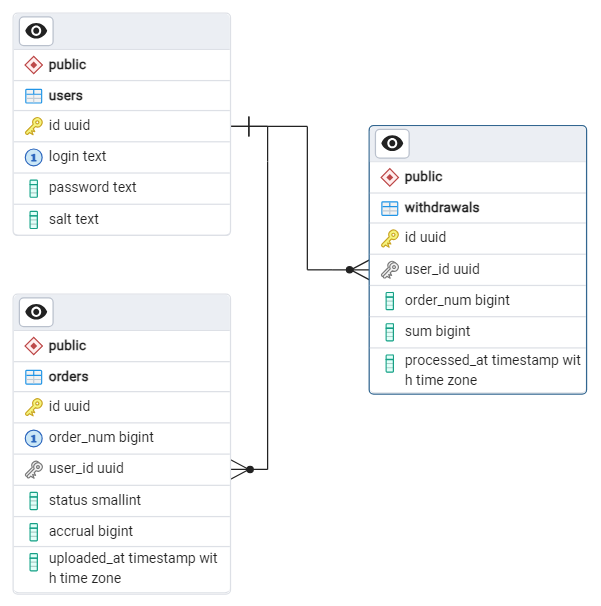
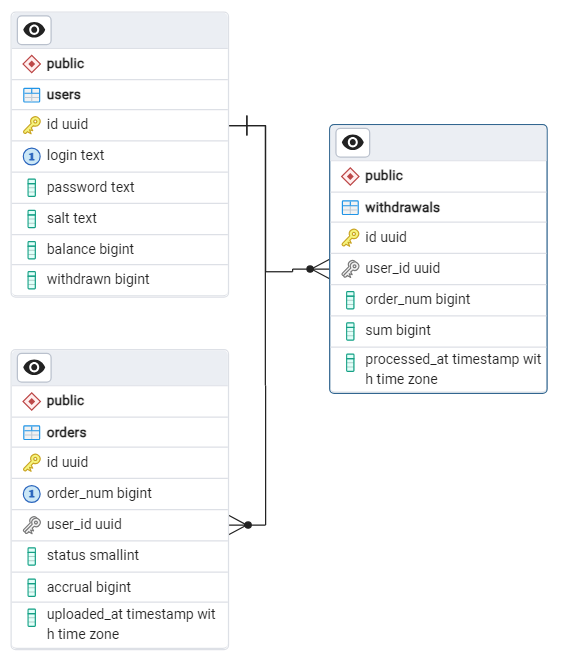
Some fixes for graceful shutdown and more

Changed region(s): [[0.0301, 0.1782, 0.9947, 0.9802], [0.0301, 0.0, 0.3918, 0.4455]]

diff --git a/internal/storage/storage.go b/internal/storage/storage.go
@@ -7,6 +7,7 @@ import (
 	"errors"
 	"github.com/jackc/pgx/v5/pgxpool"
 	"go.uber.org/zap"
+	"sync"
 	"yapracticum-go-diploma-1/internal/config"
 )
 
@@ -21,40 +22,46 @@ var ErrOrderAlreadyExists error = errors.New("this order already exists in datab
 var ErrOrderOtherUser error = errors.New("this order belongs to other user")
 var ErrWithdrawNotEnough error = errors.New("hot enough bonus points")
 
-//var cfg config.Config
-
 type Storage struct {
-	dbConn *pgxpool.Pool
-	config config.Config
-	encKey string
-	logger *zap.Logger
+	dbConn   *pgxpool.Pool
+	config   config.Config
+	encKey   string
+	logger   *zap.Logger
+	rStarter sync.Once
 }
 
-func New(config config.Config, logger *zap.Logger) *Storage {
-	return &Storage{config: config, logger: logger}
-}
+func New(config config.Config, logger *zap.Logger) (*Storage, error) {
+	encKey := make([]byte, 128)
+	_, err := rand.Read(encKey)
+	if err != nil {
+		return nil, err
+	}
 
-func (s *Storage) Init(ctx context.Context) error {
-	var err error
+	s := Storage{config: config, logger: logger, encKey: hex.EncodeToString(encKey)}
 
 	poolConfig, err := pgxpool.ParseConfig(s.config.ConnString)
 	if err != nil {
 		s.logger.Sugar().Errorf("Unable to parse connection string: %s", err)
-		return err
+		return nil, err
 	}
 	s.dbConn, err = pgxpool.NewWithConfig(context.Background(), poolConfig)
 	if err != nil {
 		s.logger.Sugar().Errorf("Unable to create connection pool: %s", err)
-		return err
+		return nil, err
 	}
 
-	encKey := make([]byte, 128)
-	_, err = rand.Read(encKey)
-	if err != nil {
-		return err
-	}
-	s.encKey = hex.EncodeToString(encKey)
+	return &s, nil
+}
 
+func (s *Storage) Init(ctx context.Context) error {
+	defer func() {
+		s.rStarter.Do(func() {
+			go s.NewOrdersRefresher(ctx)
+			go s.autoInit(ctx)
+		})
+	}()
+
+	var err error
 	// Need execute to use uuid4
 	_, err = s.dbConn.Exec(ctx, `CREATE EXTENSION IF NOT EXISTS "uuid-ossp";`)
 	if err != nil {
@@ -76,9 +83,33 @@ func (s *Storage) Init(ctx context.Context) error {
 		return err
 	}
 
-	go s.NewOrdersRefresher(ctx)
-
 	return nil
+}
+
+func (s *Storage) autoInit(ctx context.Context) {
+	connPrev := true
+	connected := false
+	cw := NewCtxCancellWaiter(ctx, "autoInit", s.logger, 15)
+
+	for {
+		scan, err := cw.Scan()
+		if err != nil {
+			return
+		}
+		if !scan {
+			continue
+		}
+
+		if connected = s.dbConn.Ping(ctx) == nil; connected && !connPrev {
+			err := s.Init(ctx)
+			if err != nil {
+				s.logger.Sugar().Errorf("Initialization error: %s", err.Error())
+			} else {
+				s.logger.Sugar().Warnf("Database restored after fault.")
+			}
+		}
+		connPrev = connected
+	}
 }
 
 func (s *Storage) Close(ctx context.Context) {
@@ -86,7 +117,7 @@ func (s *Storage) Close(ctx context.Context) {
 }
 
 func (s *Storage) GetOrderOwner(ctx context.Context, orderNum int) string {
-	//"SELECT login FROM orders WHERE order_num = $1"
+
 	query := `SELECT user_id FROM orders WHERE orders.order_num = $1`
 
 	var login string

diff --git a/internal/storage/worker.go b/internal/storage/worker.go
@@ -7,7 +7,7 @@ import (
 	"fmt"
 	"github.com/jackc/pgx/v5"
 	"net/http"
-	"time"
+	"strconv"
 )
 
 func (s *Storage) ApplyAccrualResponse(ctx context.Context, response AccrualResponse) error {
@@ -67,17 +67,38 @@ func (s *Storage) ApplyAccrualResponse(ctx context.Context, response AccrualResp
 }
 
 func (s *Storage) NewOrdersRefresher(ctx context.Context) {
+	mainLoopContextManager := NewCtxCancellWaiter(ctx, "NewOrdersRefresher", s.logger, 15)
+	innerLoopContextManager := NewCtxCancellWaiter(ctx, "NewOrdersRefresher", s.logger, 0)
 
 	for {
-
-		time.Sleep(3 * time.Second)
+		// Wait 15 sec between scans. Monitoring context each second.
+		scan, err := mainLoopContextManager.Scan()
+		if err != nil {
+			return
+		}
+		if !scan {
+			continue
+		}
 
 		orders, err := s.GetUnhandledOrders(ctx)
 		if err != nil {
 			continue
 		}
 
+		innerLoopContextManager.SetSkipSeconds(0)
 		for _, order := range orders.Orders {
+
+			for {
+				scan, err := innerLoopContextManager.Scan()
+				if err != nil {
+					return
+				}
+				if scan {
+					break
+				}
+			}
+			innerLoopContextManager.SetSkipSeconds(0)
+
 			s.logger.Info(fmt.Sprintf("Accrual Request: %s/api/orders/%s", s.config.AccrualAddress, order.Number))
 
 			resp, err := http.Get(fmt.Sprintf("%s/api/orders/%s", s.config.AccrualAddress, order.Number))
@@ -91,15 +112,26 @@ func (s *Storage) NewOrdersRefresher(ctx context.Context) {
 
 			s.logger.Info(fmt.Sprintf("Accrual Response: %s, Status: %d", string(respData), resp.StatusCode))
 
-			var respParsed AccrualResponse
-			err = json.Unmarshal(respData, &respParsed)
-			if err != nil {
-				continue
-			}
+			switch resp.StatusCode {
+			case http.StatusOK:
+				var respParsed AccrualResponse
+				err = json.Unmarshal(respData, &respParsed)
+				if err != nil {
+					continue
+				}
 
-			err = s.ApplyAccrualResponse(ctx, respParsed)
-			if err != nil {
-				s.logger.Error(err.Error())
+				err = s.ApplyAccrualResponse(ctx, respParsed)
+				if err != nil {
+					s.logger.Error(err.Error())
+				}
+
+			case http.StatusTooManyRequests:
+				raHeader := resp.Header.Get("Retry-After")
+				retryTime, err := strconv.Atoi(raHeader)
+				if err != nil {
+					retryTime = 10
+				}
+				innerLoopContextManager.SetSkipSeconds(retryTime)
 			}
 		}
 	}

diff --git a/internal/storage/storage_test.go b/internal/storage/storage_test.go
@@ -26,12 +26,12 @@ func (sts *StorageTestSuite) SetupTest() {
 
 	storageContainer := testhelpers.NewTestDatabase(sts.T())
 
-	//connstring := fmt.Sprintf("postgresql://%s:%d/postgres?user=postgres&password=postgres", storageContainer.Host(), storageContainer.Port(sts.T()))
-	connstring := fmt.Sprintf("postgresql://%s:%d/postgres?user=postgres&password=postgres", "localhost", 5432)
+	connstring := fmt.Sprintf("postgresql://%s:%d/postgres?user=postgres&password=postgres", storageContainer.Host(), storageContainer.Port(sts.T()))
+	//connstring := fmt.Sprintf("postgresql://%s:%d/postgres?user=postgres&password=postgres", "localhost", 5432)
 	logger, err := zap.NewProduction()
 	require.NoError(sts.T(), err)
 
-	store := New(config.Config{ConnString: connstring}, logger)
+	store, _ := New(config.Config{ConnString: connstring}, logger)
 	err = store.Init(context.Background())
 	require.NoError(sts.T(), err)
 
@@ -135,15 +135,6 @@ func (sts *StorageTestSuite) Test_End_To_End() {
 		}
 	})
 
-	data, err := sts.TestStorager.GetWithdrawalsData(ctx, userID)
-	if err != nil {
-		return
-	}
-	sts.T().Log(len(data.Withdrawals))
-	for _, v := range data.Withdrawals {
-		sts.T().Log(v)
-	}
-
 	sts.Run(`ReCheck Balance`, func() {
 		balance, err := sts.TestStorager.GetBalance(ctx, userID)
 		if err != nil {
@@ -160,13 +151,5 @@ func (sts *StorageTestSuite) Test_End_To_End() {
 			sts.T().Errorf("Unexpectedly withdrawed 150 bonus points")
 		}
 	})
-
-	data, err = sts.TestStorager.GetWithdrawalsData(ctx, userID)
-	if err != nil {
-		return
-	}
-	for _, v := range data.Withdrawals {
-		sts.T().Log(v)
-	}
 
 }

diff --git a/cmd/gophermart/main.go b/cmd/gophermart/main.go
@@ -45,7 +45,7 @@ func Router() chi.Router {
 }
 
 func main() {
-	parentContext := context.Background()
+	parentContext, cancel := context.WithCancel(context.Background())
 
 	var err error
 	if logger, err = zap.NewProduction(); err != nil {
@@ -53,28 +53,30 @@ func main() {
 	}
 
 	cfg := config.New()
-	dbStorage = storage.New(cfg, logger)
-	if err = dbStorage.Init(parentContext); err != nil {
-		logger.Error(err.Error())
-		return
+	dbStorage, err = storage.New(cfg, logger)
+	if err != nil {
+		panic(err.Error())
 	}
+
+	dbStorage.Init(parentContext)
 
 	handlers.Init(logger, dbStorage, cfg)
 
 	server := http.Server{Addr: cfg.Endpoint, Handler: Router()}
 
-	go shutdownSignal(parentContext, &server)
+	go shutdownSignal(parentContext, cancel, &server)
 
 	if err := server.ListenAndServe(); err != nil {
 		logger.Error(err.Error())
 	}
 }
 
-func shutdownSignal(ctx context.Context, server *http.Server) {
+func shutdownSignal(ctx context.Context, cancel context.CancelFunc, server *http.Server) {
 	terminateSignals := make(chan os.Signal, 1)
 	signal.Notify(terminateSignals, syscall.SIGTERM, syscall.SIGINT)
 	s := <-terminateSignals
 	logger.Info("Got one of stop signals, shutting down server gracefully, SIGNAL NAME :" + s.String())
+	cancel()
 	dbStorage.Close(ctx)
 	server.Shutdown(ctx)
 }

diff --git a/internal/storage/misc.go b/internal/storage/misc.go
@@ -1,0 +1,39 @@
+package storage
+
+import (
+	"context"
+	"go.uber.org/zap"
+	"time"
+)
+
+type CtxCancellWaiter struct {
+	skipSeconds int
+	ctx         context.Context
+	objectName  string
+	logger      *zap.Logger
+	currCycle   int
+}
+
+func NewCtxCancellWaiter(ctx context.Context, objectName string, logger *zap.Logger, skipSeconds int) *CtxCancellWaiter {
+	return &CtxCancellWaiter{ctx: ctx, skipSeconds: skipSeconds, objectName: objectName, logger: logger, currCycle: 0}
+}
+
+func (ccw *CtxCancellWaiter) Scan() (scan bool, ctxStatus error) {
+	time.Sleep(1 * time.Second)
+
+	if err := ccw.ctx.Err(); err != nil {
+		ccw.logger.Sugar().Infof("%s routine exited: context cancelled.", ccw.objectName)
+		return false, err
+	}
+	if ccw.currCycle >= ccw.skipSeconds {
+		ccw.currCycle = 0
+		return true, nil
+	}
+	ccw.currCycle++
+	return false, nil
+}
+
+func (ccw *CtxCancellWaiter) SetSkipSeconds(duration int) {
+	ccw.currCycle = 0
+	ccw.skipSeconds = duration
+}

diff --git a/README.md b/README.md
@@ -8,15 +8,15 @@
 
 Финансовая информация хранится как `bigint`, на стороне приложения go обрабатывается кастомным типом данных `Numeric`
 
-Транзакции применяются в следующих случаях:  
-— Для списания баллов. Изоляция: `Serializable`, 2 `SELECT` для проверки баланса, один `INSERT` для записи информации о списании  
-— Для проверки баланса. Изоляция: `RepeatableRead`, 2 `SELECT` для проверки баланса
+В таблице `users` предусмотрены столбцы `balance` и `withdrawals`, оба с `CONSTRAINT CHECK >= 0`, в них харнится соответственно общий баланс и сумма списаний с бонусного счёта.
+
+Начисление баллов за заказ происходит в рамках транзакции со степенью изоляции `ReadCommitted`, которая объединяет операции `UPDATE orders (accrual, status)` и `UPDATE users (balance)`. По идее тут ничего не должно пойти не так даже без транзакции, разве что база данных ляжет посреди двух UPDATE.
+
+Списание баллов происходит в рамках транзакции со степенью изоляции `ReadCommitted`, которая объединяет операции `INSERT withdrawals` и `UPDATE users (balance, withdrawals)`. Две транзакции с такой степенью изоляции не станут делать одновременно `UPDATE users`, вторая транзакция подождёт окончания первой. Условие для отката транзации – нарушение `CHECK (balance >= 0)`.
 
 ## Аутентификация
 
-Аутентификация реализована через куки, в котором передаётся jwt токен с user_id (соответствует id пользователя из БД). Кроме этого в токене содержится случайное число, чтобы подписываемая информация была разной при каждой новой генерации токена.
-
-Экспирация аутентификации обеспечивается на стороне сервера. При генерации токена, а также после каждого запроса пользователя время истечения принимается равным: текущее время + 5 минут.
+Аутентификация реализована через куки, в котором передаётся jwt токен с user_id (соответствует id пользователя из БД), временем выпуска токена и его экспирации.
 
 Проверку аутентификации для нужных путей осуществляет middlware `CustomAuth`. В случае успешной аутентификации добавляется хэдер `LoggedUserID`, информацию из которого используют хэндлеры.
 
@@ -28,16 +28,11 @@
 
 Реализован в виде одной рутины, которая раз в 3 секуны проверяет базу на наличие необработанных записей, и если такие есть, последовательно для каждого заказа делает запрос в систему расчёта вознаграждения.
 
+Если система расчёта вознаграждения ответила с кодом `200`, производим операцию "начисление баллов" (транзакция из двух UPDATE), если ответила с кодом `429`, то перед следующим запросом ждём указанное количество секунд.  
+При получении любого другого кода просто переходим к следующему запросу.
+
 ## TODO
 
-— Лучше проработать разрешение конфликтов запросов. Транзакция не решает вопросы разграничения доступа к данным, а только предотвращает ошибочные ситуации в случае, когда по какой-то причине не удалось доступ правильно разграничить. То есть необходимо либо проводить повторные запросы в случаях ошибок транзакций, либо, что кажется лучшим решением, использовать мютекс для предотвращения одновременного проведения запросов, которые нельзя делать одновременно. Транзакции в таком случае будут нужны, кажется, только для подстраховки. Например, если почему-то запущен второй гофермарт.  
+— Прикрутить Prometeus.
 
-— Также надо в принципе лучше понять, каким образом транзакция блокирует записи. Например, если начать транзакцию с запроса к одной таблице, а затем сделать запрос к другой, то каким образом БД гарантирует, что данные во второй таблице с момента начала транзакции не изменились? Возможно, такая гарантия может быть только в случае, если изменение второй таблицы тоже проводится в рамках транзакции? В таком случае надо учитывать, что любые изменения этой таблицы необходимо оборачивать в транзакцию.  
-
-— Проверка баланса путём чтения всех записей начисления и всех записей списания интуитивно выглядит очень медленной. Хорошо бы придумать механизм, который позволил бы получать данные одной строкой таблицы. Вот тут, кажется, как раз именно транзакции будут в тему.
-
-— Надо как-то разделить сервис на несколько подсервисов, чтобы попробовать прикрытить RabbitMQ. Можно попробовать отдельно выделить аутентификацию, или написать лайт версию accrual.
-
-— Прикрутить Clickhouse для логирования истории вызываемых хэндлеров.
-
-— Если успею, разобраться с Redis и тем, как его можно применить для кэширования
+— Написать тесты, тестирующие всю логику работы сервера, включая хэндлеры, рутины и т.д.
